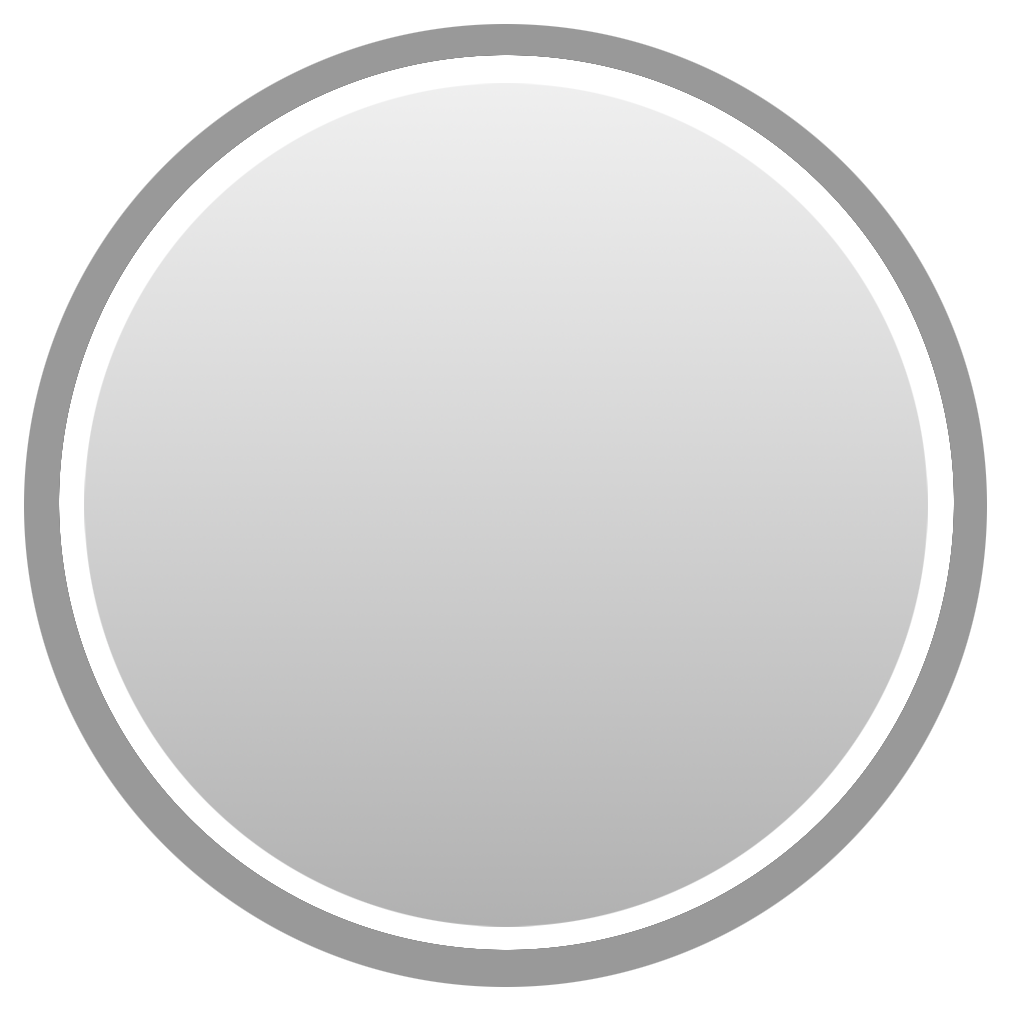
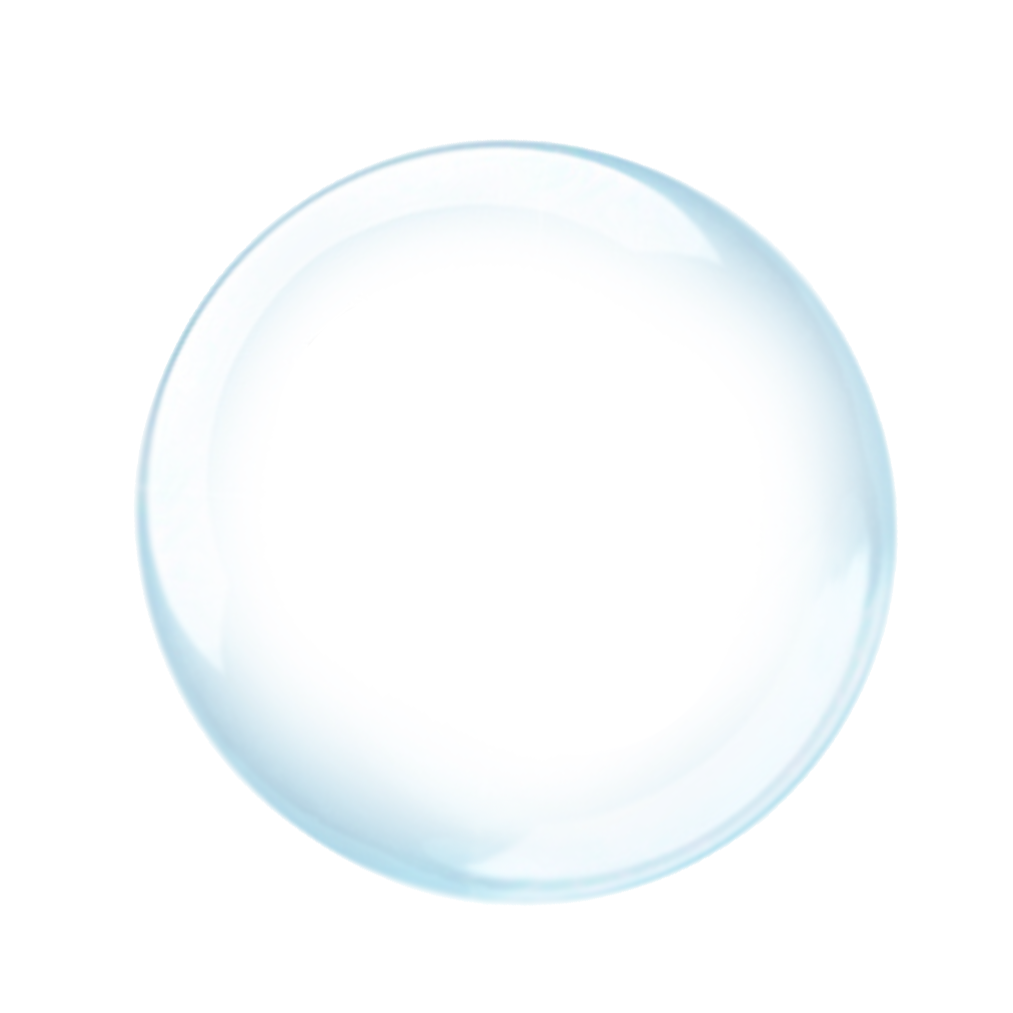
added bubbles, saving group state

diff --git a/client/dragdrop.css b/client/dragdrop.css
@@ -1,21 +1,21 @@
 body { margin: 0px; font-family: arial;}
-#drop
-{ width: 48%; height: 375px; color: gray; font-size: 3em; font-family: arial; text-align: center; vertical-align: middle; float: left; }	
+#drop { width: 48%; height: 375px; color: gray; font-size: 3em; font-family: arial; text-align: center; vertical-align: middle; float: left; }	
+#logo { margin-left: 30px; }
 #list { float: left; width: 48%; height: 375px; border: 1px solid black; }
 #list a img, #list a p { font-family: helvetica; font-size: 14px; float: left; color: gray; }
 #drop, #list { margin-top: 45px; border: 3px dashed rgba(102, 102, 102, 0.24); border-radius: 10px; }
 #status { width: 1000px; height: 200px; border: 1px solid black; margin: auto; float: left; }
-img { height: 20px; }
+.dataItem img { height: 20px; }
 #droptext { width: 100%; height: 100%; }
 
 #circleArea { width: 60%; height: 100%; margin: 0px auto; padding: 15px; }
-#fileList { left: 0px; border-right: 1px solid #CCC; }
-#userList { right: 0px; border-left: 1px solid #CCC; }
+#fileList { left: 0px; }
+#userList { right: 0px; }
 .sidebar { width: 20%; height: 100%; position: absolute; background-image: url(http://s.ytimg.com/yt/imgbin/www-refreshbg-vflC3wnbM.png); z-index: 10; top: 0px; padding-top: 62px; }
 .floating { position: absolute; }
-#addCircle { top: 0px; right: 20%; border: 1px solid #CCC; border-top: none; border-right: none; padding: 10px; margin-top: 60px; }
+#addCircle { top: 0px; right: 20%; border: 1px solid #CCC; border-top: none; border-right: none; padding: 10px; margin-top: 60px; background-color: #FFF; opacity: 0.5; }
 #options { bottom: 0px; left: 0px; }
-.sidebar { box-shadow: 0px 0px 22px 6px #CCC;}
+.sidebar { box-shadow: 0px 0px 6px #333; }
 
 
 
@@ -42,20 +42,20 @@ img { height: 20px; }
 
 #maskInput { position: fixed; top: 45%; z-index: 5000; width: 100%; height: 300px; background-color: #026A8B }
 
-.group { height: 150px; width: 150px; position: relative; }
+.group { height: 150px; width: 150px; display: inline-block; }
 .group .groupName { font-size: 12px; font-family: Verdana, sans-serif; margin: 10px 0; color: #FFF; font-weight: 500; }
 .group .groupName { width: 60px; text-align: center; white-space: nowrap; overflow: hidden; text-overflow: ellipsis; }
-.red .circle { background-color: #EA0037; }
-.blue .circle { background-color: #348DCE; }
-.green .circle { background-color: #007C21; }
-.yellow .circle { background-color: #FFA400; }
-.orange .circle { background-color: #FF8740; }
-.purple .circle { background-color: #8742D6; }
-.pink .circle { background-color: #C10087; }
-.outerCircle { background: url('/images/BubblesBubble.png') no-repeat center center; background-size: 110px; height: 117px; width: 150px; -webkit-transition: background-size 100ms linear; padding-top: 35px; }
-.outerCircle:hover { -webkit-transition: background-size 100ms linear; background-size: 140px; }
-.circle { height: 57px; width: 57px; margin: 0px 34px; background-color: #348DCE; border-radius: 50%; padding: 13px; }
-.circle { -moz-box-shadow: inset 0 0 5px #333; -webkit-box-shadow: inset 0 0 5px #333; box-shadow: inner 0 0 5px #333; }
+.red .groupName { color: #EA0037; }
+.blue .groupName { color: #348DCE; }
+.green .groupName { color: #007C21; }
+.yellow .groupName { color: #FFA400; }
+.orange .groupName { color: #FF8740; }
+.purple .groupName { color: #8742D6; }
+.pink .groupName { color: #C10087; }
+.outerCircle { background: url('/images/BubblesBubble.png') no-repeat center center; background-size: 140px; height: 117px; width: 150px; -webkit-transition: background-size 100ms linear; padding-top: 35px; }
+.outerCircle:hover { -webkit-transition: background-size 100ms linear; background-size: 180px; }
+.circle { height: 57px; width: 57px; margin: 0px 34px; background-color: transparent; border-radius: 50%; padding: 13px; }
+/*.circle { -moz-box-shadow: inset 0 0 5px #333; -webkit-box-shadow: inset 0 0 5px #333; box-shadow: inner 0 0 5px #333; }*/
 .loadingText { margin-left: 22px; color: #000; font-weight: bold; }
 .tipGroupName { font-size: 12px; font-weight: bold; color: #333; }
 /*
@@ -72,3 +72,4 @@ img { height: 20px; }
 /* Override tiptip styling */
 #tiptip_content { background: #FFF none !important; text-shadow: none !important; color: #000 !important; border: 1px solid #AAA !important; }
 #tiptip_holder.tip_right #tiptip_arrow_inner { border-right-color: #AAA !important; }
+#textMessage { font-family: Verdana, sans-serif; }

diff --git a/client/manager.js b/client/manager.js
@@ -30,18 +30,63 @@ Page.Manager = (function () {
 		}
 	});
 	
+	function saveGroups() {
+		var serial = JSON.stringify(groups.map(function (g) { return { name: g.name, x: g.x, y: g.y, color: g.color, users: g.getUserNames() }; }));
+		// Save the user's groups in local storage
+		localStorage.setItem('__groups', serial);
+	}
+	
+	function createGroup(name, skipSave) {
+		var group;
+		if (name) {
+			groups.push(group = new Page.Group(name, row, column));
+			column = (column + 1) % columnCount;
+			if (column == 0) {
+				row += 1;
+			}
+			
+			if (!skipSave) {
+				saveGroups();
+			}
+			return group;
+		}
+	}
+	
 	function onload() {
 		// Run code that requires the dom
 		$('#createGroup').click(function () {
 			var groupName = $('#groupName').val();
-			if (groupName) {
-				groups.push(new Page.Group(groupName, row, column));
-				column = (column + 1) % columnCount;
-				if (column == 0) {
-					row += 1;
-				}
-			}
+			createGroup(groupName);
 		});
+		
+		$('#groupName').on('focus', function () {
+			$('#addCircle').css('opacity', '1.0');
+		});
+		$('#groupName').on('blur', function () {
+			$('#addCircle').css('opacity', '0.5');
+		});
+		
+		// Load the groups, if the user has any
+		var groups = localStorage.getItem('__groups'),
+			group;
+		if (groups) {
+			// Deserialize the object
+			groups = JSON.parse(groups);
+			for (var i = 0; i < groups.length; i++) {
+				group = createGroup(groups[i].name, true);
+				group.moveTo(groups[i].x, groups[i].y);
+				for (var j = 0; j < groups[i].users.length; j++) {
+					group.users.push(new Page.UserItem(groups[i].users[j].name, groups[i].users[j].active));
+				}
+				group.updateCount();
+			}
+		}
+		else {
+			createGroup('Everyone', true);
+		}
+		window.onbeforeunload = function () {
+			saveGroups();
+		};
 	}
 	
 	// Execute when DOM is ready

diff --git a/client/views.js b/client/views.js
@@ -19,7 +19,6 @@
 				'<div class="inline wrapper">',
 					'<div class="user">{user}:</div>',
 					'<div class="userData">{data}</div>',
-					'<div class="size">{size} bytes</div>',
 				'</div>',
 			'</div>',
 			'<div class="separator"></div>'
@@ -105,7 +104,7 @@
 		this.size = data.size;
 		
 		if (data.type === 'file') {
-			this.data = '<a href="' + data.url + '">' + data.name + '</a>';
+			this.data = '<a href="' + data.url + '">' + data.fileName + '</a>';
 		}
 		
 		var html = dataTemplate.join('');
@@ -130,7 +129,6 @@
 		this.color = colors.splice(Math.floor(Math.random() * colors.length), 1);
 		this.x = this.column * columnSize;
 		this.y = this.row * rowSize;
-		console.log(this.y);
 		this.users = [];
 		
 		var html = groupTemplate.join('');
@@ -164,6 +162,10 @@
 		this.el.on('dragleave', function () {
 			dragCount -= 1;
 		});
+		this.el.on('dragstop', function () {
+			this.x = this.el.css('left');
+			this.y = this.el.css('top');
+		}.bind(this));
 		this.el.on('click', function () {
 			console.log('clicked');	
 			var tip = $('#tiptip_content');
@@ -191,12 +193,18 @@
 		},
 		
 		moveTo: function (x, y) {
+			this.x = x;
+			this.y = y;
 			$(this.el).css({ top: y, left: x });
 		},
 		
 		updateCount: function () {
 			// Sets the count text in this group to this size of the user array
 			$(this.el).find('.loadingText').text(this.users.length);
+		},
+		
+		getUserNames: function () {
+			return this.users.map(function (u) { return { name: u.name, active: u.active }; });
 		}
 	};
 })();

diff --git a/client/room.html b/client/room.html
@@ -1,10 +1,11 @@
 <!DOCTYPE html>
 <head>
+	<title>BubbleRoom</title>
 	<script type="text/javascript" src="http://code.jquery.com/jquery-1.8.0.min.js"></script>
 	<script type="text/javascript" src="/jquery.ui.core.js"></script>
 	<script type="text/javascript" src="/jquery.ui.widget.js"></script>
 	<script type="text/javascript" src="/jquery.ui.mouse.js"></script>
-	<script type="text/javascript" src="/jquery.ui.draggable.js"></script>
+	<script type="text/javascript" src="/jquery.ui.draggable.js"></script>	
 	<script type="text/javascript" src="/jquery.tipTip.minified.js"></script>	
 	<script type="text/javascript" src="https://api.filepicker.io/v0/filepicker.js"></script>
 	<script type="text/javascript" src="/socket.io/socket.io.js"></script>
@@ -30,10 +31,6 @@
 		}
 		
 		$(function () {
-			new Page.Group('Everyone', 0, 0);
-			new Page.Group('Development', 0, 1);
-			new Page.Group('Out of Office', 0, 2);
-			
 			new Page.UserItem('Poop McGee', true);
 			new Page.DataItem('Bryan Chuchu', { type: 'file', url: 'http://www.google.com', fileName: 'myawesomefile.js' });
 			new Page.DataItem('Peter B.', { type: 'text', data: 'What is up guys?' });
@@ -55,7 +52,7 @@
 	
 	</div>
 	-->
-	<div id="header"></div>
+	<div id="header"><img src="/images/BubblesLogo.png" height="60" id="logo" /></div>
 	<div id="container">
 		<div class="sidebar" id="fileList">
 		</div>

diff --git a/client/index.html b/client/index.html
@@ -1,5 +1,6 @@
 <!DOCTYPE html>
 <head>
+	<title>Bubbles</title>
 	<!-- Main include on all pages -->
 	<script type="text/javascript" src="/socket.io/socket.io.js"></script>
 	<script type="text/javascript" src="/overrides.js"></script>
@@ -17,10 +18,11 @@
 		html, body { background-image: url(http://s.ytimg.com/yt/imgbin/www-refreshbg-vflC3wnbM.png); height: 100%; width: 100%; }
 		#container { width: 400px; margin: 150px auto; }
 		#request { width: 400px; height: 120px; font-size: 40px; font-family: Verdana, sans-serif; }
+		#logo { margin-left: 30px; }
 	</style>
 </head>
 <body>
-	<div id="header"></div>
+	<div id="header"><img src="/images/BubblesLogo.png" height="60" id="logo" /></div>
 	<div id="container">
 		<button id="request">Request Server</button>
 	</div>

diff --git a/client/dragdrop.js b/client/dragdrop.js
@@ -79,7 +79,7 @@ Page = (function() {
 		$('#' + id).tipTip({ 
 			defaultPosition: 'bottom', 
 			activation: 'click', 
-			keepAlive: true
+			keepAlive: false
 		});
 	}
 	
